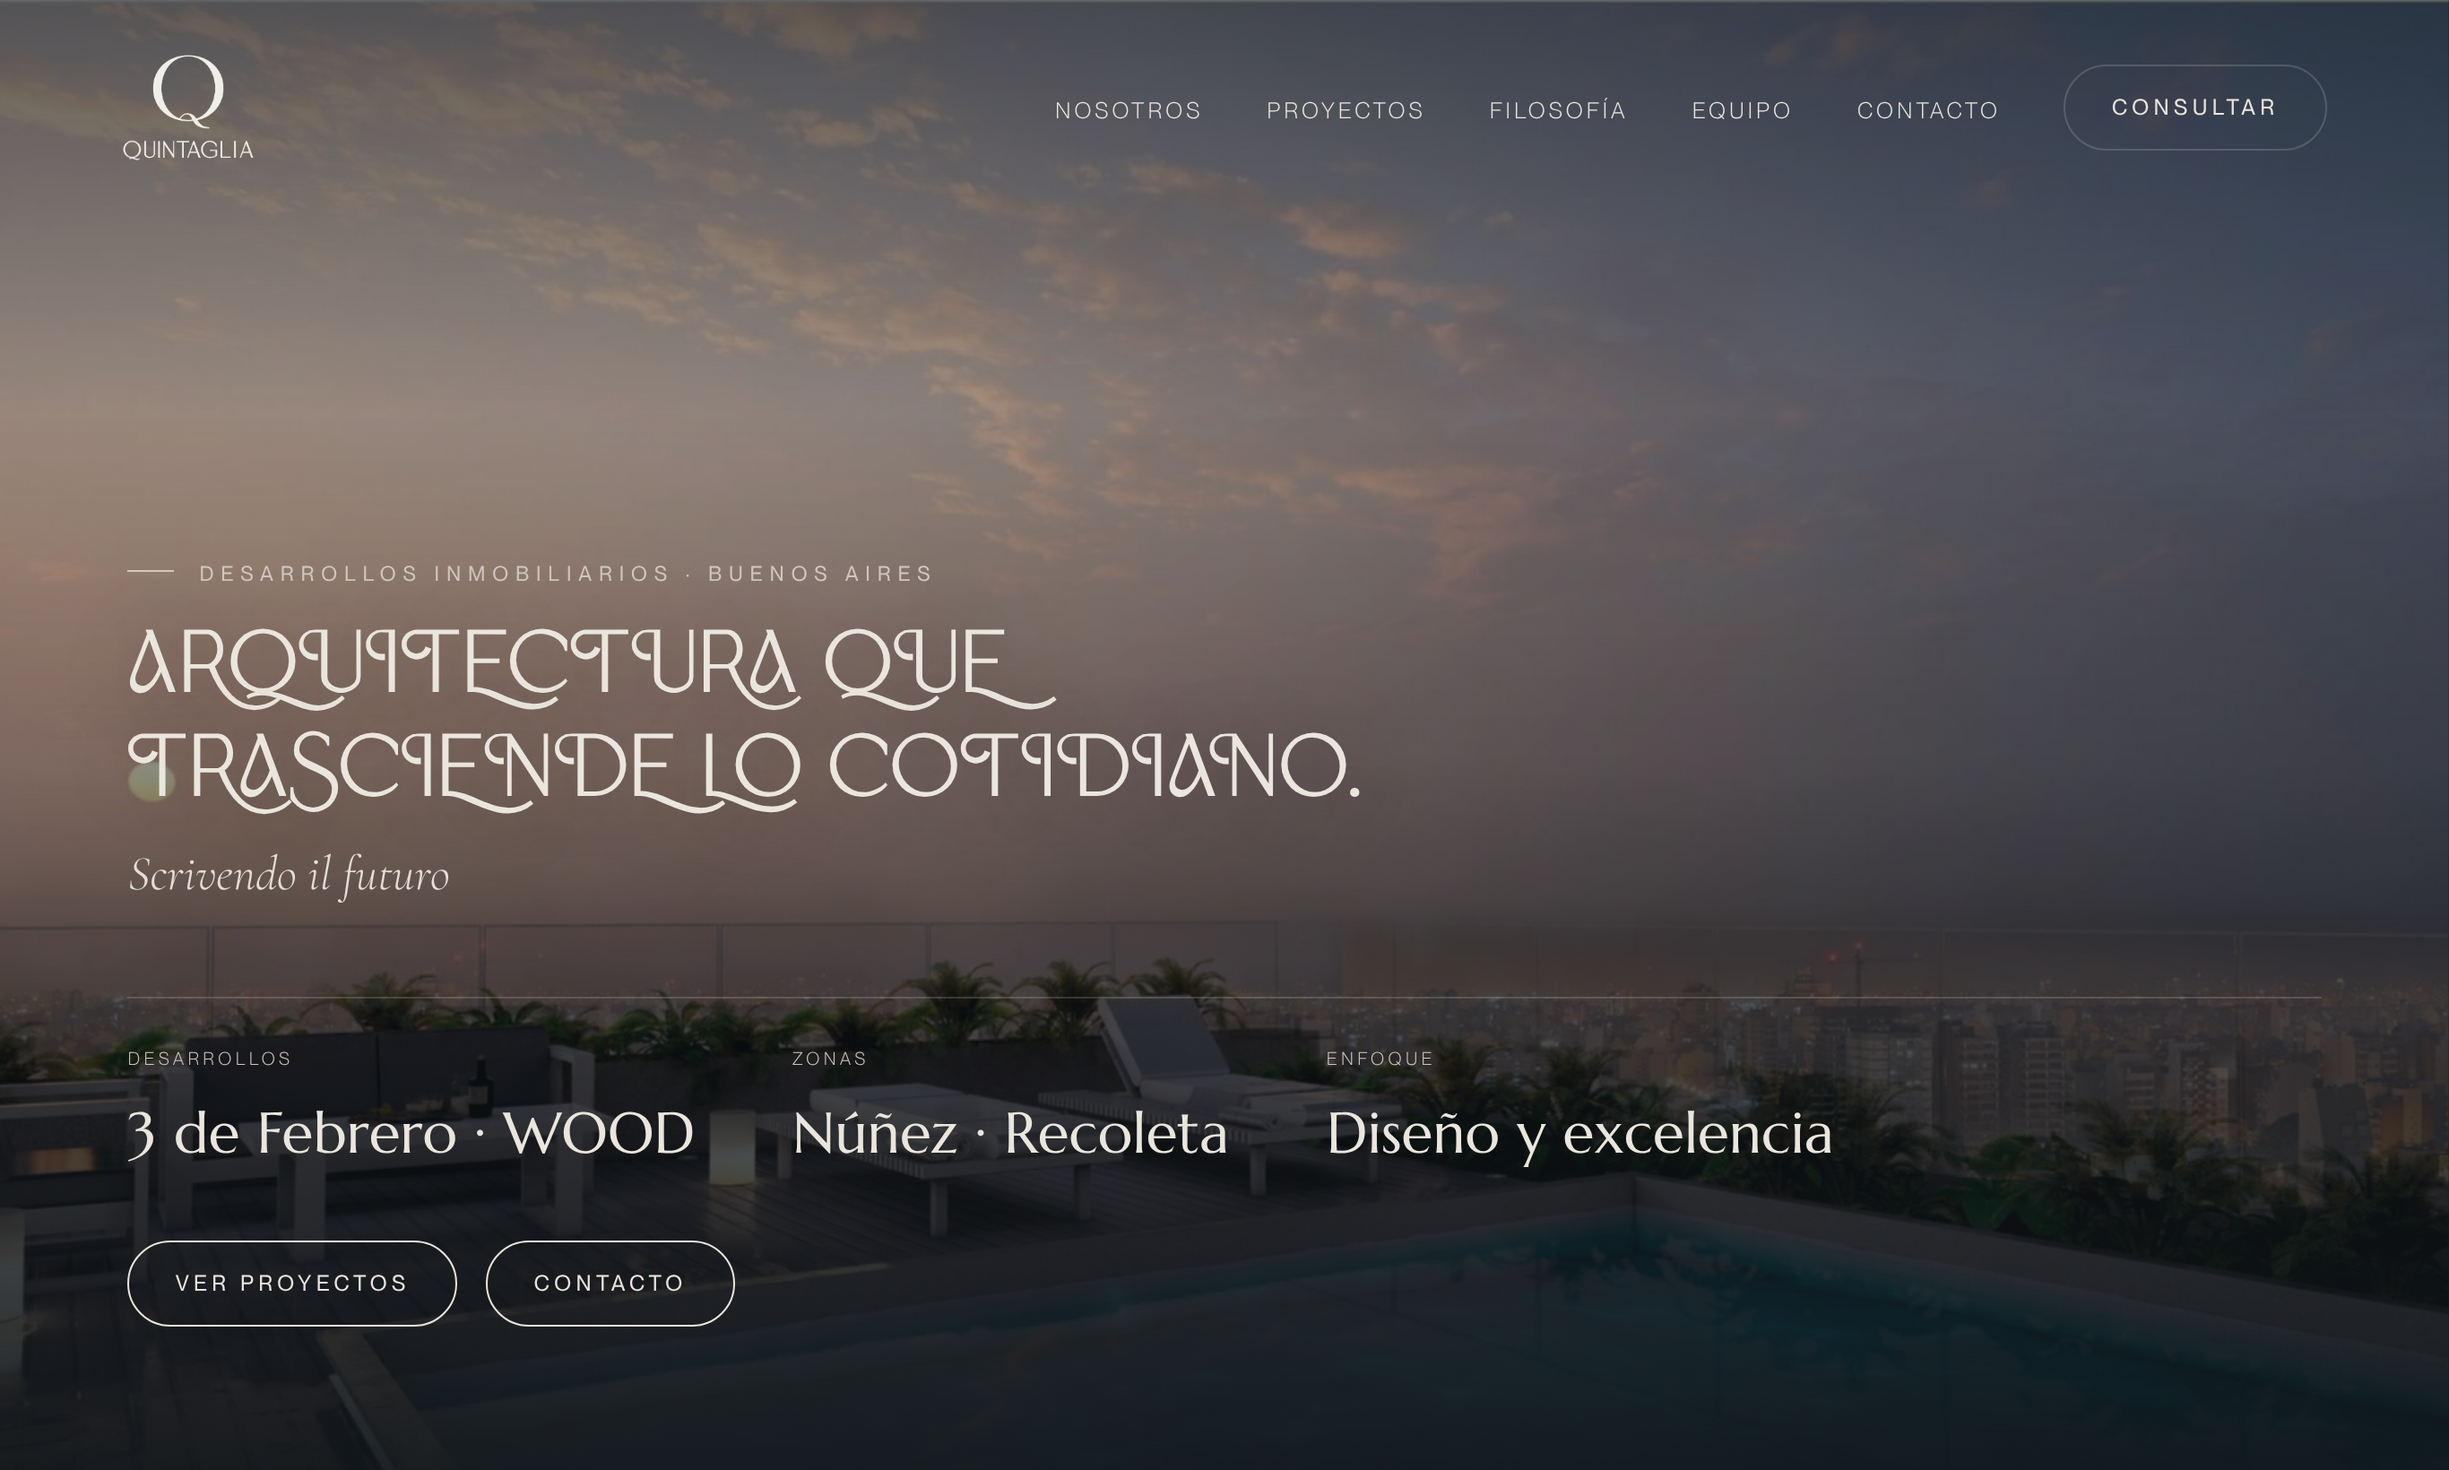
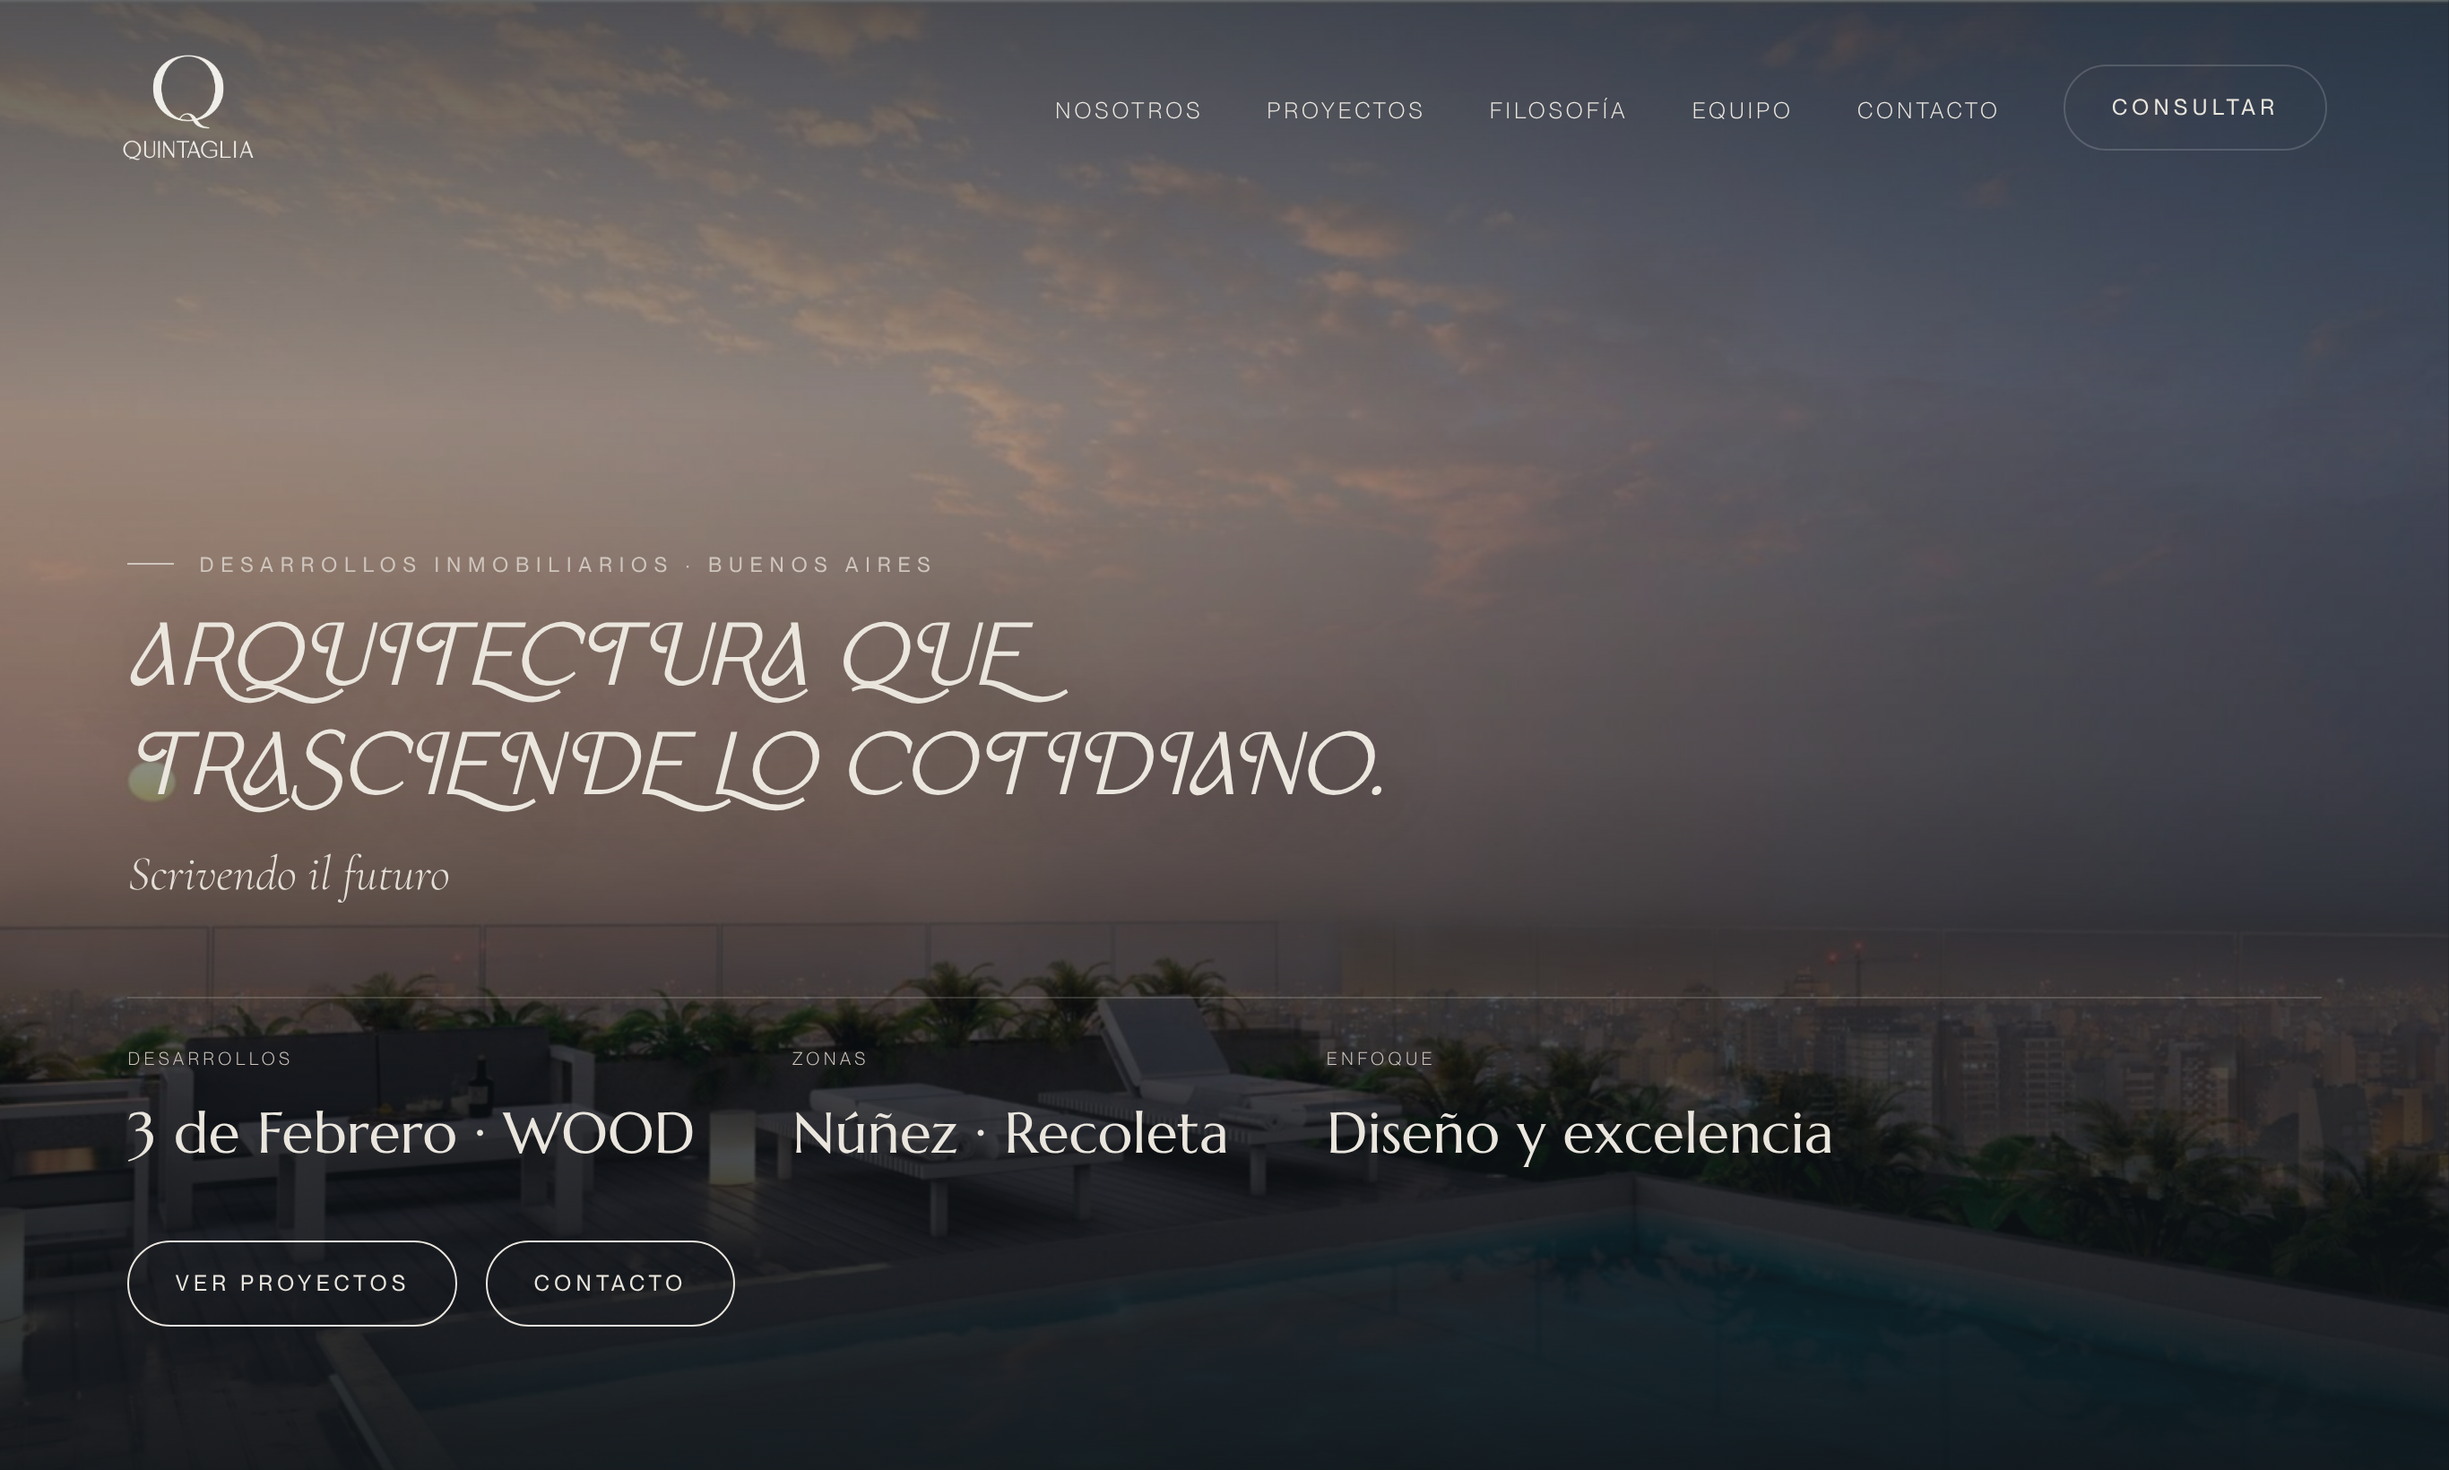
Inicio: hero en Harume italica swashy (como la referencia 'renders del proyecto'). Cache v121
Claude-Session: https://claude.ai/code/session_01NXm8J8BJyiJPjT4n6qAJJi

Changed region(s): [[0.0311, 0.3732, 0.56, 0.5598]]

diff --git a/proyectos/3-de-febrero-2781.html b/proyectos/3-de-febrero-2781.html
@@ -10,7 +10,7 @@
   <link href="https://fonts.googleapis.com/css2?family=Cormorant+Garamond:ital,wght@0,300;0,400;0,500;1,300;1,400&family=Hanken+Grotesk:wght@300;400;500;600&family=Inter:wght@300;400;500&family=Italiana&family=Marcellus&display=swap" rel="stylesheet">
   <link rel="icon" type="image/png" href="../assets/logo/mono-dark.png">
   <link rel="apple-touch-icon" href="../assets/logo/mono-dark.png">
-  <link rel="stylesheet" href="../styles.css?v=120">
+  <link rel="stylesheet" href="../styles.css?v=121">
 </head>
 <body class="theme-3df">
 
@@ -517,6 +517,6 @@
   </footer>
 
   <div class="lightbox" id="lightbox"><img src="" alt=""></div>
-  <script src="../script.js?v=120"></script>
+  <script src="../script.js?v=121"></script>
 </body>
 </html>

diff --git a/index.html b/index.html
@@ -10,7 +10,7 @@
   <link href="https://fonts.googleapis.com/css2?family=Cormorant+Garamond:ital,wght@0,300;0,400;0,500;1,300;1,400&family=Hanken+Grotesk:wght@300;400;500;600&family=Inter:wght@300;400;500&family=Italiana&family=Marcellus&family=Tenor+Sans&display=swap" rel="stylesheet">
   <link rel="icon" type="image/png" href="assets/logo/mono-dark.png">
   <link rel="apple-touch-icon" href="assets/logo/mono-dark.png">
-  <link rel="stylesheet" href="styles.css?v=120">
+  <link rel="stylesheet" href="styles.css?v=121">
 </head>
 <body class="theme-brand">
 
@@ -296,6 +296,6 @@
     </div>
   </footer>
 
-  <script src="script.js?v=120"></script>
+  <script src="script.js?v=121"></script>
 </body>
 </html>

diff --git a/proyectos/wood-recoleta.html b/proyectos/wood-recoleta.html
@@ -10,7 +10,7 @@
   <link href="https://fonts.googleapis.com/css2?family=Cormorant+Garamond:ital,wght@0,300;0,400;0,500;0,600;1,300;1,400;1,500&family=Montserrat:wght@300;400;500;600&display=swap" rel="stylesheet">
   <link rel="icon" type="image/png" href="../assets/logo/mono-dark.png">
   <link rel="apple-touch-icon" href="../assets/logo/mono-dark.png">
-  <link rel="stylesheet" href="../styles.css?v=120">
+  <link rel="stylesheet" href="../styles.css?v=121">
 </head>
 <body class="theme-wood">
 
@@ -478,6 +478,6 @@
   </footer>
 
   <div class="lightbox" id="lightbox"><img src="" alt=""></div>
-  <script src="../script.js?v=120"></script>
+  <script src="../script.js?v=121"></script>
 </body>
 </html>

diff --git a/styles.css b/styles.css
@@ -1062,8 +1062,9 @@ a.project { text-decoration:none; color:inherit; }
    lleva acentos porque Harume no los tiene. */
 .hero--home h1 {
   font-family: "Harume Roman", "Cormorant Garamond", "Italiana", serif;
+  font-style: italic;
   text-transform: uppercase; font-weight: 400;
-  font-size: clamp(2.1rem, 5vw, 3.4rem); line-height: 1.08; letter-spacing: .01em;
+  font-size: clamp(2.1rem, 5vw, 3.4rem); line-height: 1.12; letter-spacing: .02em;
   max-width: 22ch;
 }
 .hero--home .pp-hero__loc {

diff --git a/CLAUDE.md b/CLAUDE.md
@@ -10,7 +10,7 @@ Sitio de **Quintaglia Desarrollos Inmobiliarios** (Buenos Aires). Home de marca 
   python3 -m http.server 8777
   ```
   Luego abrir `http://localhost:8777/`.
-- **Cache-busting manual**: los links a `styles.css` y `script.js` llevan `?v=N`. Al cambiar CSS/JS hay que subir ese número en las 3 páginas. Versión actual: **v120**.
+- **Cache-busting manual**: los links a `styles.css` y `script.js` llevan `?v=N`. Al cambiar CSS/JS hay que subir ese número en las 3 páginas. Versión actual: **v121**.
   ```bash
   perl -0pi -e 's{styles\.css\?v=\d+}{styles.css?v=NN}g; s{script\.js\?v=\d+}{script.js?v=NN}g' index.html proyectos/3-de-febrero-2781.html proyectos/wood-recoleta.html
   ```
